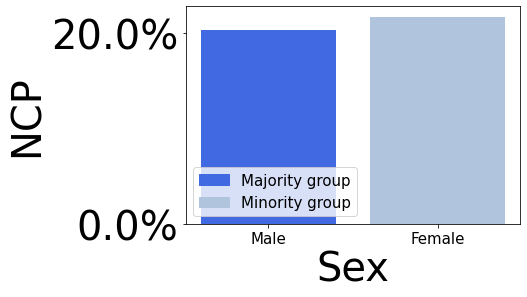
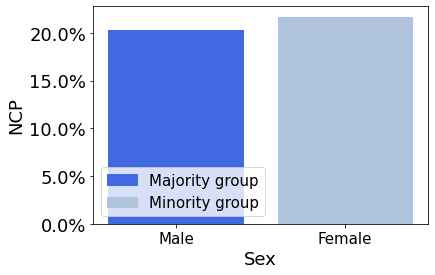
Updated figures

diff --git a/experiments.py b/experiments.py
@@ -302,3 +302,73 @@ pickle.dump([NCP_list_dataset,pureness_list_dataset,ex_times_dataset,sel_frame_d
 #pickle.dump(b,outfile)
 outfile.close() 
 
+
+#%%% 6.3 interplay between the metrics
+from statistics import mean
+headers = ['WifeAge', 'WifeEducation',
+           'HusbandEducation', 'ChildrenBorn',
+           'WifeReligion', 'WifeWorking',
+           'HusbandOccupation', 'SOLIndex',
+           'MediaExposure', 'ContraceptiveMethodUsed']
+
+cmc = pd.read_csv("DATA/cmc.data",
+                  header=None,
+                  names=headers,
+                  sep=',',
+                  engine='python')
+cmc.head()
+X = cmc.drop(columns=['ContraceptiveMethodUsed'])
+y = cmc['ContraceptiveMethodUsed'] == 1
+num_feat = [0, 3]
+cat_feat = [1, 2, 4, 5, 6, 7, 8]
+target_outcome = True  # geen anticonceptie (genant)
+feature_names = list(X.columns)
+qid = ['WifeAge', 'ChildrenBorn']
+discr_attr = 'WifeReligion'
+
+#modelling
+num=[i for i,v in enumerate(qid) if feature_names.index(v) in num_feat]
+cat=[i for i,v in enumerate(qid) if feature_names.index(v) in cat_feat]
+X_train, y_train, X_test,y_test,clf,NICE_fit=model(X,y,feature_names, cat_feat, num_feat, target_outcome)
+#GRASP for different k's
+alfa=40
+max_iterations=5
+ex_times_k={}
+pureness_list_k={}
+NCP_list_k={}
+Ykn=[]
+Ykp=[]
+for k in [2,5,10,15,20,25,30]:
+    ex_times, pureness_list, NCP_list, gen_list, discr_list=grasp_results(discr_attr,X,y,X_train,X_test,y_test,y_train,target_outcome,  k, alfa, qid, num_feat, cat_feat,feature_names,max_iterations,clf, NICE_fit)
+    ex_times_k[k]=ex_times
+    pureness_list_k[k]=pureness_list
+    NCP_list_k[k]=NCP_list
+    print(k)
+    print(mean(ex_times))
+    print(mean(pureness_list))
+    print(mean(NCP_list))
+    Ykn.append(mean(NCP_list))
+    Ykp.append(mean(pureness_list))
+
+#%%
+
+X= [2,5,10,15,20,25,30]
+#plt.bar(X, Ykn,1, label = 'NCP', color='b')
+plt.bar(X, Ykp,1, color='royalblue')
+plt.ylim(0.9,1.01)
+#plt.legend()
+plt.xlabel('Values of k', fontsize=15)
+plt.ylabel('Pureness', fontsize =15)
+filename='Figures/interplay_pureness'
+plt.savefig(filename, bbox_inches='tight')
+plt.show()
+
+
+X= [2,5,10,15,20,25,30]
+plt.bar(X, Ykn,1,color='royalblue')
+#plt.legend()
+plt.xlabel('Values of k', fontsize=15)
+plt.ylabel('NCP', fontsize =15)
+filename='Figures/interplay_ncp'
+plt.savefig(filename, bbox_inches='tight')
+plt.show() 

diff --git a/CF_K_Visualizations.py b/CF_K_Visualizations.py
@@ -128,6 +128,7 @@ for key in pureness_grasp.keys():
 
 #%% fairness results
 # watch out that majority/minority group is correct
+plt.rcParams['font.size'] = '18'
 
 discr_attr, discr_attr_values,discr_list={},{},{}
 
